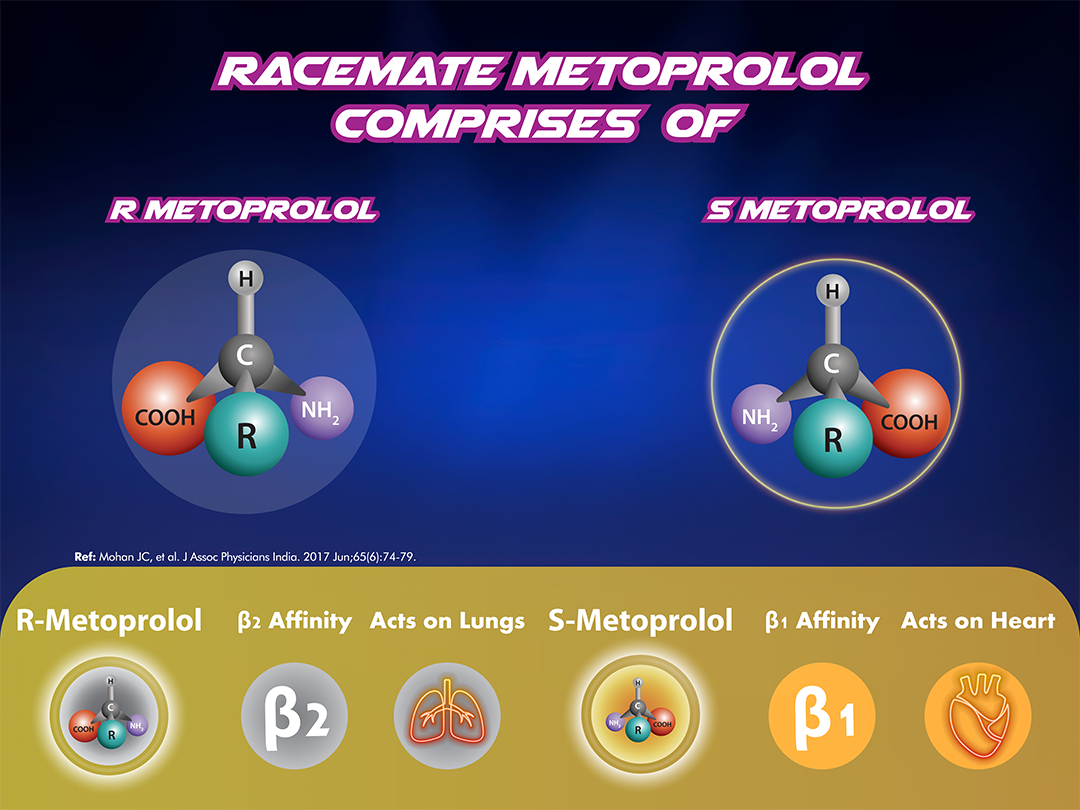
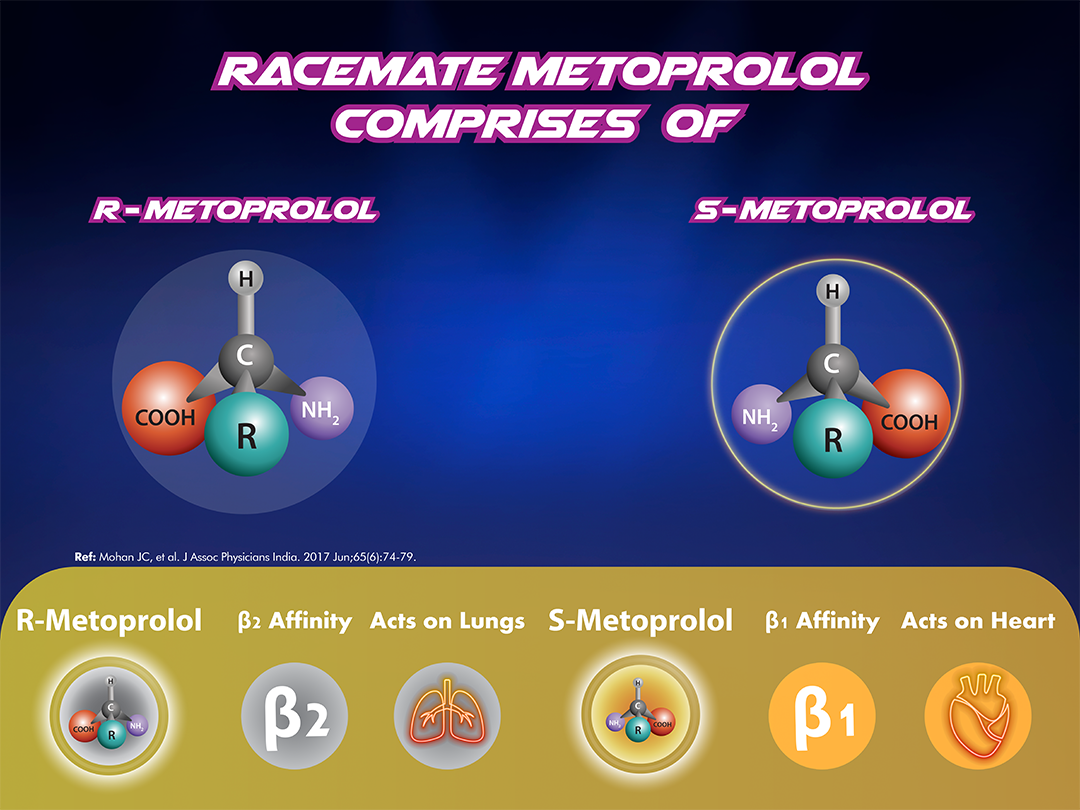
Update

diff --git a/slide1/slide1.css b/slide1/slide1.css
@@ -355,10 +355,10 @@
 
 .pat10 {
   position: absolute;
-  left: 835px;
-  top: 515px;
-  width: 138px;
-  height: 46px;
+  left: 823px;
+  top: 518px;
+  width: 139px;
+  height: 49px;
   animation: fadeInUp 0.5s;
   animation-delay: 4.5s;
   animation-fill-mode: both;
